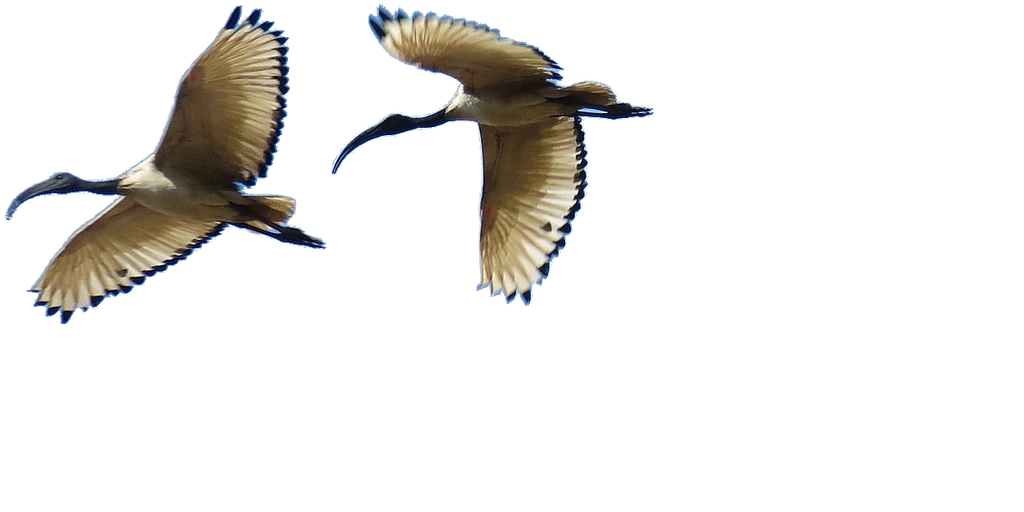
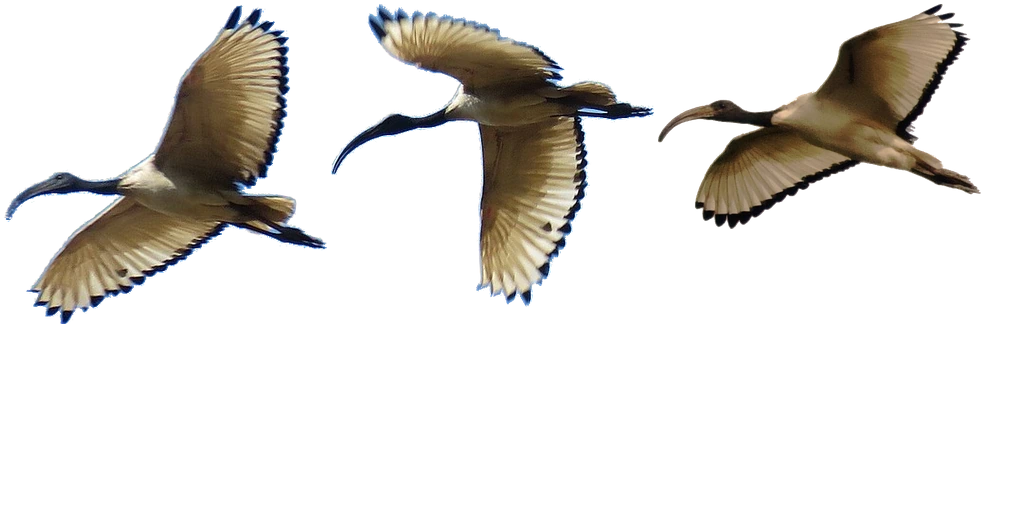
Give the ibises a gliding picture, and a gliding flock two ways to hold its wings
The ibis had only wingbeat pictures, so a gliding ibis showed its wings-down
frame, and the Harbour's five, gliding together, were one picture five
times. It now has a glide frame, from Charles Lam's photograph of a feral
sacred ibis in Taiwan (CC BY-SA 2.0, so ibis.webp is shared under it too;
the credits say so), brought to the other frames' warm light by the mean of
its body's mid-tones, its washed-grey head and wingtips deepened (a new
`darks` option in bird-sprites.py). A mid-stroke ibis shows it too, so its
wingbeat runs through three pictures. And in a flock every other bird glides
with its wings held lower (its down frame), so the ibises and the Swiss
Alps' ravens no longer glide as copies of one another.

Claude-Session: https://claude.ai/code/session_012iNshuFMyvbkPRWxxbwWQm

Changed region(s): [[0.6562, 0.0, 0.9688, 0.4688], [0.625, 0.25, 0.6562, 0.2812]]

diff --git a/credits.html b/credits.html
@@ -40,7 +40,7 @@
 </table></div>
 <p>The stitched backdrops' skies are Poly Haven's Qwantani pure skies (below).</p>
 <h2>Birds</h2>
-<p>The birds are photographs of real ones from Wikimedia Commons, cut out of their backgrounds and resized, or for the 3D birds painted onto their models (<code>tools/bird-sprites.py</code>, <code>tools/bird-models.py</code>; this section is written by <code>tools/bird-credits.mjs</code> from the credits they record). Because the herring gull's, blue jay's and northern cardinal's images are made from CC BY-SA photographs, they are shared under <a href="https://creativecommons.org/licenses/by-sa/4.0/">CC BY-SA 4.0</a> too.</p>
+<p>The birds are photographs of real ones from Wikimedia Commons, cut out of their backgrounds and resized, or for the 3D birds painted onto their models (<code>tools/bird-sprites.py</code>, <code>tools/bird-models.py</code>; this section is written by <code>tools/bird-credits.mjs</code> from the credits they record). Because the herring gull's, african sacred ibis's, blue jay's and northern cardinal's images are made from CC BY-SA photographs, they are shared under <a href="https://creativecommons.org/licenses/by-sa/4.0/">CC BY-SA 4.0</a> too.</p>
 <div class="table"><table>
 <tr><th>Shows</th><th>Photograph</th><th>Author</th><th>Licence</th></tr>
 <tr><td>Kelp gull (Rocky cove)</td><td><a href="https://commons.wikimedia.org/wiki/File:Kelp_gull_half_moon_island_1.17.25_DSC_9790-topaz-rawdenoise.jpg">Kelp gull half moon island 1.17.25 DSC 9790-topaz-rawdenoise</a></td><td>lwolfartist</td><td><a href="https://creativecommons.org/licenses/by/2.0/">CC BY 2.0</a></td></tr>
@@ -62,6 +62,7 @@
 <tr><td>Mute swan (Wooded lake)</td><td><a href="https://commons.wikimedia.org/wiki/File:After_eating_the_family_was_leaving_Houten_-_panoramio.jpg">After eating the family was leaving Houten - panoramio</a></td><td>Henk Mons</td><td><a href="https://creativecommons.org/licenses/by/3.0/">CC BY 3.0</a></td></tr>
 <tr><td>Mute swan (Wooded lake)</td><td><a href="https://commons.wikimedia.org/wiki/File:Banking_to_the_Left.jpg">Banking to the Left</a></td><td>Charlie From Bristol</td><td><a href="https://creativecommons.org/licenses/by/2.0/">CC BY 2.0</a></td></tr>
 <tr><td>Mute swan (Wooded lake)</td><td><a href="https://commons.wikimedia.org/wiki/File:Mute_Swan_%288940930326%29.jpg">Mute Swan (8940930326)</a></td><td>Andy Morffew</td><td><a href="https://creativecommons.org/licenses/by/2.0/">CC BY 2.0</a></td></tr>
+<tr><td>African sacred ibis (Harbour)</td><td><a href="https://commons.wikimedia.org/wiki/File:Flying_%2816591530356%29.jpg">Flying (16591530356)</a></td><td>Charles Lam</td><td><a href="https://creativecommons.org/licenses/by-sa/2.0/">CC BY-SA 2.0</a></td></tr>
 <tr><td>African sacred ibis (Harbour)</td><td><a href="https://commons.wikimedia.org/wiki/File:Threskiornis_aethiopicus_%2829779757897%29.jpg">Threskiornis aethiopicus (29779757897)</a></td><td>Donald Hobern</td><td><a href="https://creativecommons.org/licenses/by/2.0/">CC BY 2.0</a></td></tr>
 <tr><td>African sacred ibis (Harbour)</td><td><a href="https://commons.wikimedia.org/wiki/File:Threskiornis_aethiopicus_%2844667354662%29.jpg">Threskiornis aethiopicus (44667354662)</a></td><td>Donald Hobern</td><td><a href="https://creativecommons.org/licenses/by/2.0/">CC BY 2.0</a></td></tr>
 <tr><td>Egyptian goose (Mesas)</td><td><a href="https://commons.wikimedia.org/wiki/File:Egyptian_goose%2C_South_Luangwa_National_Park_%2851871856029%29.jpg">Egyptian goose, South Luangwa National Park (51871856029)</a></td><td>I've Got It On Film!</td><td><a href="https://creativecommons.org/licenses/by/2.0/">CC BY 2.0</a></td></tr>

diff --git a/src/birdSprites.js b/src/birdSprites.js
@@ -9,6 +9,9 @@
 // side on (src/birds.js: across the eye's view) and only a few frames are
 // needed, each a role (frameFor), named `<kind>-<role>` in the frames:
 //   - glide: wings spread, still (a soaring bird's from below, as it is seen);
+//     in a flock, every other bird (by its place in it: src/birds.js `rank`)
+//     glides with its wings held lower, its down frame, so a flock gliding
+//     together is not one picture over and over;
 //   - up, mid, down: its wingbeat, chosen by the stroke's phase while it beats
 //     (a kind without mid or down glides there);
 //   - front: coming at the eye or going from it (head on, its bank turning
@@ -335,7 +338,7 @@ export function createBirdView({ lighting, mirrorLayer, onLoaded = () => {}, mod
   function show(population, camera, iceAt) {
     while (pool.length < population.birds.length) pool.push(makeSprite());
     for (const sprite of pool) hide(sprite);
-    sprites = population.birds.map((bird, index) => Object.assign(pool[index], { kind: bird.kind }));
+    sprites = population.birds.map((bird, index) => Object.assign(pool[index], { kind: bird.kind, rank: bird.rank ?? 0 }));
     for (const sprite of sprites) sprite.uniforms.uAtlas.value = textures.get(sprite.kind) ?? standIn;
     for (const kind of new Set(sprites.map((sprite) => sprite.kind))) load(kind);
     update(population, camera, iceAt);
@@ -365,7 +368,7 @@ export function createBirdView({ lighting, mirrorLayer, onLoaded = () => {}, mod
     const feet = ice ?? at.y;
     sprite.centre.set(at.x, standing ? feet : at.y, at.z);
     for (const mesh of [...sprite.meshes, sprite.under]) mesh.position.copy(sprite.centre);
-    const { role, flip, roll } = frameFor(sprite.kind, at, sprite.centre, camera);
+    const { role, flip, roll } = frameFor(sprite.kind, at, sprite.centre, camera, sprite.rank);
     const frame = catalogue.frames[`${sprite.kind}-${role}`];
     // Still when what is drawn is last frame's: its picture, which way it faces and turns, and where (mirrorBounds).
     const { drawn } = sprite;
@@ -406,7 +409,7 @@ export function createBirdView({ lighting, mirrorLayer, onLoaded = () => {}, mod
    * whether it is mirrored (−1: it goes to the right on the screen, and
    * every frame faces left) and how far it is turned in the picture's plane.
    */
-  function frameFor(kind, at, centre, camera) {
+  function frameFor(kind, at, centre, camera, rank = 0) {
     forward.set(Math.cos(at.heading), 0, -Math.sin(at.heading));   // src/birds.js: heading about up, 0 along +x
     cameraRight.setFromMatrixColumn(camera.matrixWorld, 0);
     toBird.copy(centre).sub(camera.position).normalize();
@@ -414,7 +417,7 @@ export function createBirdView({ lighting, mirrorLayer, onLoaded = () => {}, mod
     if (at.flying === false) return { role: roleOf(kind, at.posture ?? 'stand'), flip, roll: 0 };
     const along = forward.dot(toBird);
     if (Math.abs(along) > HEAD_ON && roleOf(kind, 'front')) return { role: 'front', flip: 1, roll: at.bank * Math.sign(along) };
-    let wanted = 'glide';
+    let wanted = rank % 2 === 1 && roleOf(kind, 'glide') === 'glide' && roleOf(kind, 'down') === 'down' ? 'down' : 'glide';   // every other bird of a flock: its wings held lower (the header)
     if (at.legs > LEGS_DOWN) wanted = 'land';
     else if (at.beat > BEATING) {
       const stroke = Math.sin(at.phase);

diff --git a/tools/bird-sprites.py b/tools/bird-sprites.py
@@ -37,7 +37,9 @@
 # `crop` (a box in the 1280-pixel photo: left, top, right, bottom) cuts one
 # bird out of a photo of two before it is keyed; `gain` (per channel)
 # brings a photo taken in evening light to daylight, the kind's other frames'
-# light, matched by the mean colour of its body's mid-tones. Each frame faces left
+# light, matched by the mean colour of its body's mid-tones; `darks` (a knee,
+# 0-255, and a power) deepens only what is darker than the knee, a photo
+# whose black head and wingtips the haze has washed grey. Each frame faces left
 # (`flip` turns one that faces right) and is scaled so its box is `metres`
 # wide (or tall, `measure: 'height'`), at its kind's PIXELS_PER_METRE: about
 # 400 pixels across a flying bird's wings, more for the heron, seen nearest.
@@ -61,6 +63,7 @@ PIXELS_PER_METRE = {'heron': 380, 'herring': 330, 'kelp': 300, 'frigate': 190, '
 CC_BY_2 = ('CC BY 2.0', 'https://creativecommons.org/licenses/by/2.0/')
 CC_BY_3 = ('CC BY 3.0', 'https://creativecommons.org/licenses/by/3.0/')
 CC_BY_4 = ('CC BY 4.0', 'https://creativecommons.org/licenses/by/4.0/')
+CC_BY_SA_2 = ('CC BY-SA 2.0', 'https://creativecommons.org/licenses/by-sa/2.0/')
 CC0 = ('CC0', 'https://creativecommons.org/publicdomain/zero/1.0/')
 PUBLIC_DOMAIN = ('Public domain', 'https://creativecommons.org/publicdomain/mark/1.0/')
 
@@ -144,7 +147,11 @@ PHOTOS = [
          cut='sky', low=20, high=48, fill=True, flip=True, metres=1.7, anchor=(0.45, 0.6)),
     dict(frame='swan-up', bird='swan', file='Mute Swan (8940930326).jpg', author='Andy Morffew', licence=CC_BY_2,
          cut='sky', low=20, high=48, fill=True, flip=True, metres=1.9, anchor=(0.45, 0.25)),
-    # African sacred ibises, one photographer's: wings down and up.
+    # African sacred ibises: wings down and up (one photographer's, in a warm light), and gliding, seen from a little
+    # below (one of Taiwan's feral birds, under a white sky: brought to the others' light), so a gliding flock is not
+    # one wingbeat's picture over and over.
+    dict(frame='ibis-glide', bird='ibis', file='Flying (16591530356).jpg', author='Charles Lam', licence=CC_BY_SA_2,
+         cut='sky', low=20, high=48, fill=True, flip=True, gain=(0.92, 0.78, 0.66), darks=(110, 2.5), metres=0.95, anchor=(0.5, 0.5)),
     dict(frame='ibis-down', bird='ibis', file='Threskiornis aethiopicus (29779757897).jpg', author='Donald Hobern', licence=CC_BY_2,
          cut='sky', low=20, high=48, fill=True, flip=True, metres=0.95, anchor=(0.45, 0.55)),
     dict(frame='ibis-up', bird='ibis', file='Threskiornis aethiopicus (44667354662).jpg', author='Donald Hobern', licence=CC_BY_2,
@@ -272,6 +279,9 @@ def frame_image(spec):
         alpha, colour = cut_from_sky(image, spec['low'], spec['high'], spec['cut'] == 'blue', spec.get('fill', False))
     if 'gain' in spec:
         colour = np.clip(colour * np.array(spec['gain']), 0, 255)
+    if 'darks' in spec:
+        knee, power = spec['darks']
+        colour = np.where(colour < knee, knee * (colour / knee) ** power, colour)
     ys, xs = np.nonzero(alpha > 0.02)
     left, top, right, bottom = xs.min(), ys.min(), xs.max() + 1, ys.max() + 1
     picture = Image.fromarray(np.dstack([colour, alpha * 255]).astype(np.uint8)).crop((left, top, right, bottom))

diff --git a/CREDITS.md b/CREDITS.md
@@ -23,7 +23,7 @@ The stitched backdrops' skies are Poly Haven's Qwantani pure skies (below).
 
 ## Birds
 
-The birds are photographs of real ones from Wikimedia Commons, cut out of their backgrounds and resized, or for the 3D birds painted onto their models (`tools/bird-sprites.py`, `tools/bird-models.py`; this section is written by `tools/bird-credits.mjs` from the credits they record). Because the herring gull's, blue jay's and northern cardinal's images are made from CC BY-SA photographs, they are shared under [CC BY-SA 4.0](https://creativecommons.org/licenses/by-sa/4.0/) too.
+The birds are photographs of real ones from Wikimedia Commons, cut out of their backgrounds and resized, or for the 3D birds painted onto their models (`tools/bird-sprites.py`, `tools/bird-models.py`; this section is written by `tools/bird-credits.mjs` from the credits they record). Because the herring gull's, african sacred ibis's, blue jay's and northern cardinal's images are made from CC BY-SA photographs, they are shared under [CC BY-SA 4.0](https://creativecommons.org/licenses/by-sa/4.0/) too.
 
 | Shows | Photograph | Author | Licence |
 |---|---|---|---|
@@ -46,6 +46,7 @@ The birds are photographs of real ones from Wikimedia Commons, cut out of their 
 | Mute swan (Wooded lake) | [After eating the family was leaving Houten - panoramio](https://commons.wikimedia.org/wiki/File:After_eating_the_family_was_leaving_Houten_-_panoramio.jpg) | Henk Mons | [CC BY 3.0](https://creativecommons.org/licenses/by/3.0/) |
 | Mute swan (Wooded lake) | [Banking to the Left](https://commons.wikimedia.org/wiki/File:Banking_to_the_Left.jpg) | Charlie From Bristol | [CC BY 2.0](https://creativecommons.org/licenses/by/2.0/) |
 | Mute swan (Wooded lake) | [Mute Swan (8940930326)](https://commons.wikimedia.org/wiki/File:Mute_Swan_%288940930326%29.jpg) | Andy Morffew | [CC BY 2.0](https://creativecommons.org/licenses/by/2.0/) |
+| African sacred ibis (Harbour) | [Flying (16591530356)](https://commons.wikimedia.org/wiki/File:Flying_%2816591530356%29.jpg) | Charles Lam | [CC BY-SA 2.0](https://creativecommons.org/licenses/by-sa/2.0/) |
 | African sacred ibis (Harbour) | [Threskiornis aethiopicus (29779757897)](https://commons.wikimedia.org/wiki/File:Threskiornis_aethiopicus_%2829779757897%29.jpg) | Donald Hobern | [CC BY 2.0](https://creativecommons.org/licenses/by/2.0/) |
 | African sacred ibis (Harbour) | [Threskiornis aethiopicus (44667354662)](https://commons.wikimedia.org/wiki/File:Threskiornis_aethiopicus_%2844667354662%29.jpg) | Donald Hobern | [CC BY 2.0](https://creativecommons.org/licenses/by/2.0/) |
 | Egyptian goose (Mesas) | [Egyptian goose, South Luangwa National Park (51871856029)](https://commons.wikimedia.org/wiki/File:Egyptian_goose%2C_South_Luangwa_National_Park_%2851871856029%29.jpg) | I've Got It On Film! | [CC BY 2.0](https://creativecommons.org/licenses/by/2.0/) |
